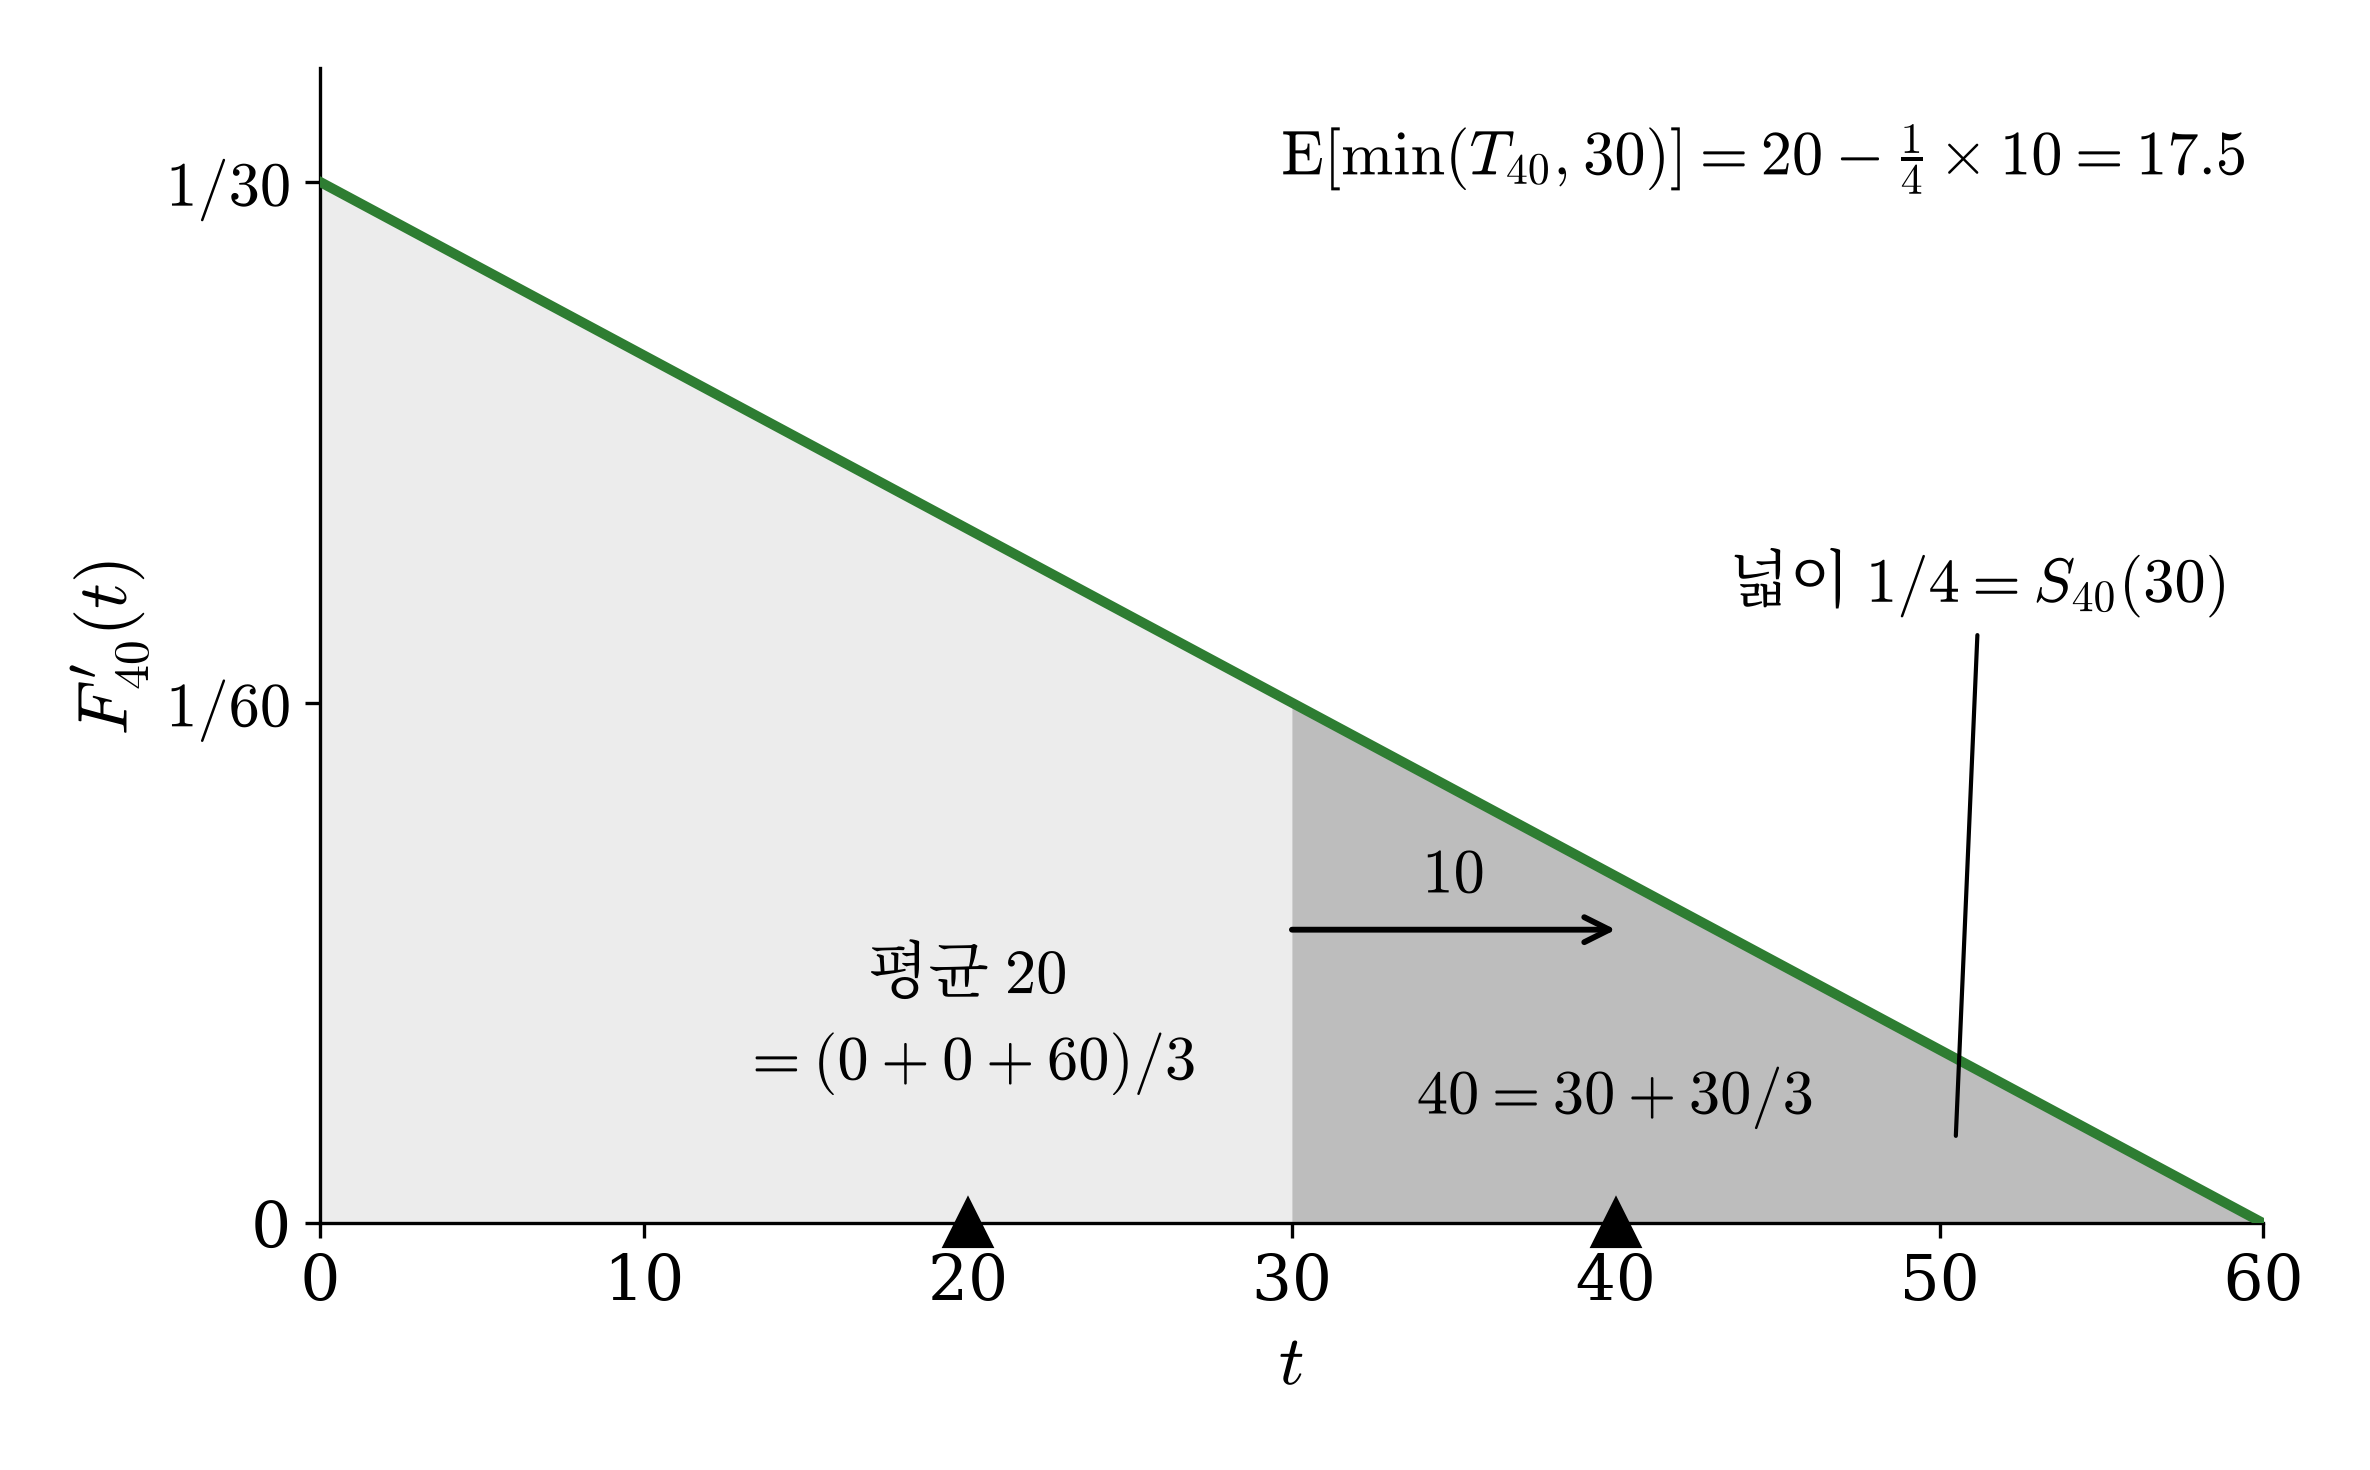
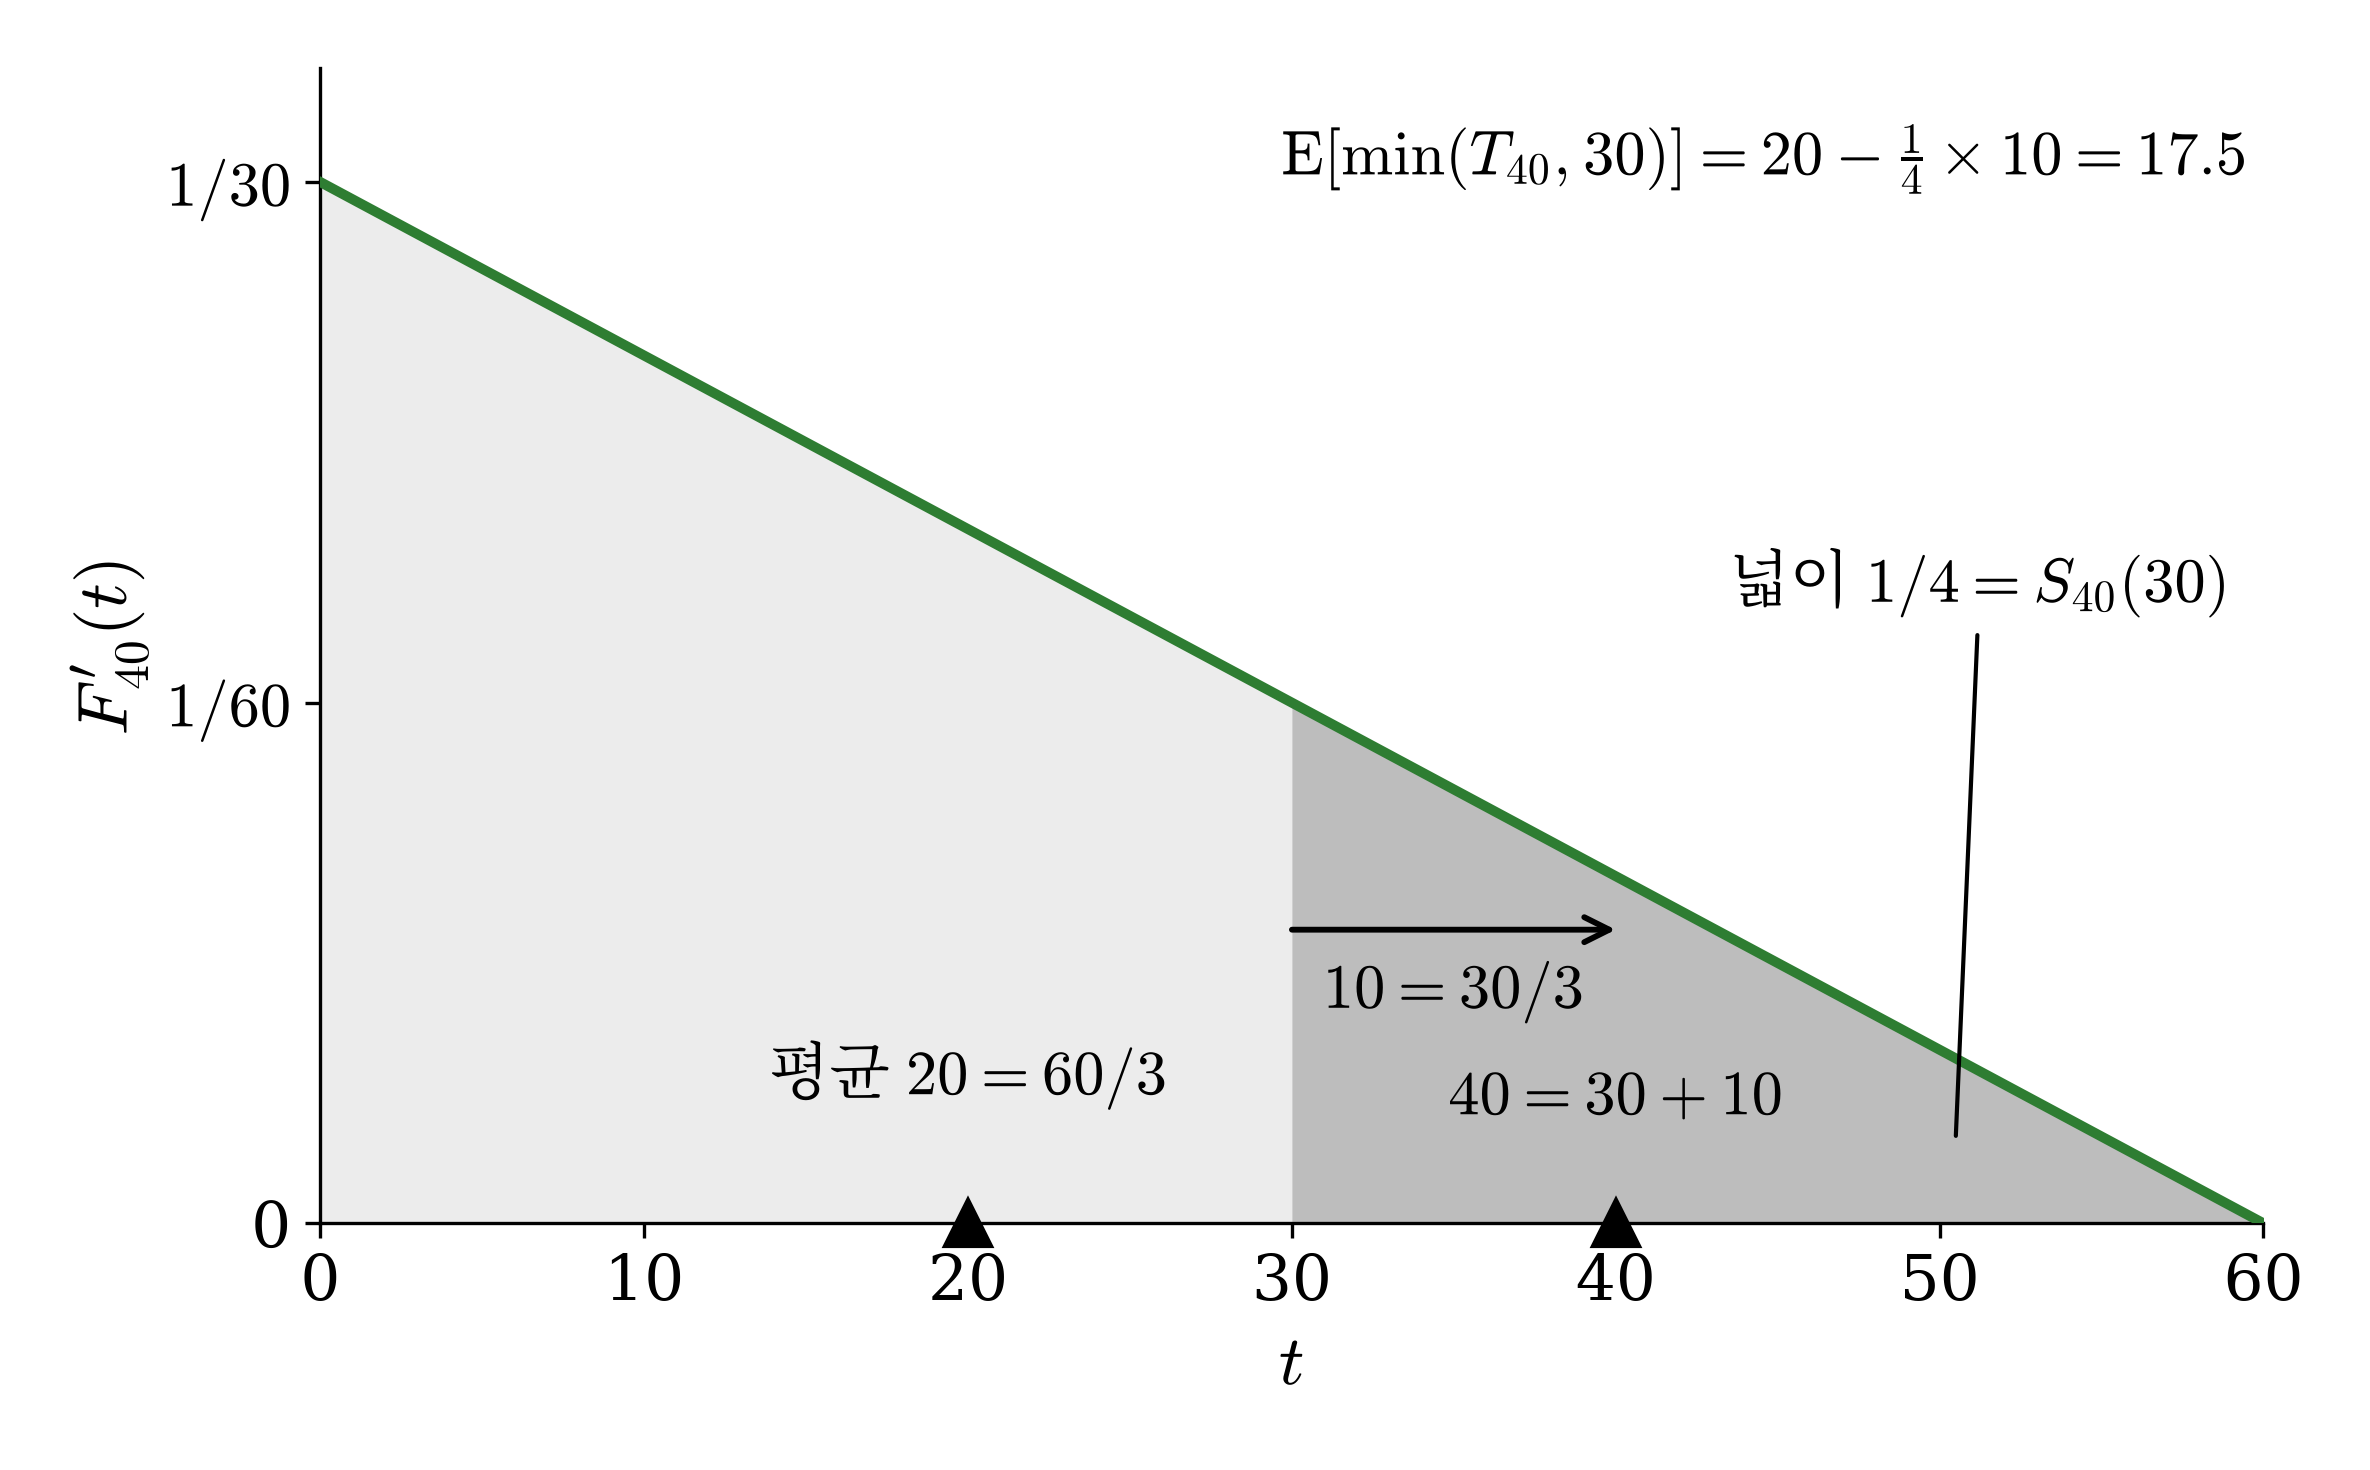
update

diff --git a/docs/posts/12wk-2.html b/docs/posts/12wk-2.html
@@ -366,8 +366,13 @@ window.Quarto = {
 \end{aligned}
 \]</span></p>
 <p><code>(풀이2)</code> 사력이 만약에 <span class="math inline">\(\mu_0(t)=\frac{1}{100 - t}\)</span> 이면 case2 에서 <span class="math inline">\(a = 100\)</span> 인 꼴이라 <span class="math inline">\(S_0(t)=1 - \frac{t}{100}\)</span> 이다. 따라서 <span class="math inline">\(S_{40}(t)=1-\frac{t}{60}\)</span>이다. 문제에서 준 사력은 <span class="math inline">\(\mu_0(t)=\frac{2}{100-t}\)</span> 이므로 우리가 원했던 사력의 2배이다. 그런데 사력이 2배면 넓이가 2배이고, 그래서 생존함수는 제곱이라는 사실을 떠올리면</p>
-<p><span class="math display">\[S_{40}(t) = \left(1 - \frac{t}{60}\right)^2\]</span> 임을 알 수 있다. 생존함수가 <span class="math inline">\(\left(1 - \frac{t}{60}\right)^2\)</span> 이면 히스토그램 <span class="math inline">\(F_{40}'(t) = \frac{2(60 - t)}{60^2}\)</span> 은 <span class="math inline">\(t = 0\)</span> 에서 가장 높고 <span class="math inline">\(t = 60\)</span> 에서 0 인 직각삼각형이다(삼각분포). 평균은 생존함수 아래 넓이이므로 <span class="math inline">\(\mathrm E[T_{40}] = \int_0^{60} \left(1 - \frac{t}{60}\right)^2 dt = \frac{60}{3} = 20\)</span> 이다.</p>
-<p><span class="math inline">\(\min(T_{40}, 30)\)</span> 은 30년 넘게 사는 사람의 30년 뒤를 잘라 낸 것이다. 30년 넘게 사는 사람은 <span class="math inline">\(S_{40}(30) = \frac14\)</span> 이고, 이들은 70세에서 사력이 <span class="math inline">\(\mu_{70}(t) = \frac{2}{30 - t}\)</span> 라 <span class="math inline">\(S_{70}(t) = \left(1 - \frac{t}{30}\right)^2\)</span> 이고, 평균 <span class="math inline">\(\int_0^{30} \left(1 - \frac{t}{30}\right)^2 dt = \frac{30}{3} = 10\)</span> 년을 더 산다.</p>
+<p><span class="math display">\[S_{40}(t) = \left(1 - \frac{t}{60}\right)^2\]</span> 임을 알 수 있다. 생존함수가 <span class="math inline">\(\left(1 - \frac{t}{60}\right)^2\)</span> 이면 히스토그램 <span class="math inline">\(F_{40}'(t) = \frac{2(60 - t)}{60^2}\)</span> 은 <span class="math inline">\(t = 0\)</span> 에서 가장 높고 <span class="math inline">\(t = 60\)</span> 에서 0 인 직각삼각형이다(삼각분포). 사력이 2배라는 것은 드므와브르를 따르는 두 사람 가운데 먼저 죽는 때라는 뜻이다. 길이 60 인 막대에 두 사람이 죽는 때를 아무렇게나 찍으면 막대는 세 토막이 나고, 두 점은 서로 바꿔도 같으므로 세 토막의 평균 길이는 같다. 첫 토막이 <span class="math inline">\(T_{40}\)</span> 이므로 <span class="math inline">\(\mathrm E[T_{40}] = \frac{60}{3} = 20\)</span> 이다.</p>
+<div class="quarto-figure quarto-figure-center">
+<figure class="figure">
+<p><img src="attachments/261120-보험유진-막대세토막.png" class="img-fluid quarto-figure quarto-figure-center figure-img" style="width:75.0%"></p>
+</figure>
+</div>
+<p><span class="math inline">\(\min(T_{40}, 30)\)</span> 은 30년 넘게 사는 사람의 30년 뒤를 잘라 낸 것이다. 30년 넘게 사는 사람은 <span class="math inline">\(S_{40}(30) = \frac14\)</span> 이고, 이들은 70세에서 사력이 <span class="math inline">\(\mu_{70}(t) = \frac{2}{30 - t}\)</span> 라 <span class="math inline">\(S_{70}(t) = \left(1 - \frac{t}{30}\right)^2\)</span> 이고, 막대가 30 이라 평균 <span class="math inline">\(\frac{30}{3} = 10\)</span> 년을 더 산다.</p>
 <div class="quarto-figure quarto-figure-center">
 <figure class="figure">
 <p><img src="attachments/261119-보험유진-예제1삼각분포.png" class="img-fluid quarto-figure quarto-figure-center figure-img" style="width:75.0%"></p>

diff --git a/docs/posts/06wk-2.html b/docs/posts/06wk-2.html
@@ -884,7 +884,7 @@ window.Quarto = {
 <p><img src="attachments/06wk_balance_N5.png" class="img-fluid" style="width:100.0%"></p>
 <p><img src="attachments/06wk_hist3_N5.png" class="img-fluid" style="width:100.0%"></p>
 </div>
-<div class="quarto-layout-panel" data-layout="[[38,31,31]]" style="text-align: center; font-size: 1.5em; line-height: 1.1; border: 1px solid #c8c8c8; padding: 10px 14px; margin: 0 0 -1px 0;">
+<div class="quarto-layout-panel" style="text-align: center; font-size: 1.5em; line-height: 1.1; border: 1px solid #c8c8c8; padding: 10px 14px; margin: 0 0 -1px 0;" data-layout="[[38,31,31]]">
 <div class="quarto-layout-row">
 <div class="quarto-layout-cell" style="flex-basis: 38.0%;justify-content: flex-start;">
 <p>⋮</p>
@@ -1734,7 +1734,7 @@ window.Quarto = {
 <p><img src="attachments/06wk_ex2_balance_N5.png" class="img-fluid" style="width:100.0%"></p>
 <p><img src="attachments/06wk_ex2_hist3_N5.png" class="img-fluid" style="width:100.0%"></p>
 </div>
-<div class="quarto-layout-panel" data-layout="[[38,31,31]]" style="text-align: center; font-size: 1.5em; line-height: 1.1; border: 1px solid #c8c8c8; padding: 10px 14px; margin: 0 0 -1px 0;">
+<div class="quarto-layout-panel" style="text-align: center; font-size: 1.5em; line-height: 1.1; border: 1px solid #c8c8c8; padding: 10px 14px; margin: 0 0 -1px 0;" data-layout="[[38,31,31]]">
 <div class="quarto-layout-row">
 <div class="quarto-layout-cell" style="flex-basis: 38.0%;justify-content: flex-start;">
 <p>⋮</p>
@@ -1996,7 +1996,7 @@ window.Quarto = {
 <p><img src="attachments/06wk_ex3_balance_N5.png" class="img-fluid" style="width:100.0%"></p>
 <p><img src="attachments/06wk_ex3_hist5_N5.png" class="img-fluid" style="width:100.0%"></p>
 </div>
-<div class="quarto-layout-panel" data-layout="[[38,31,31]]" style="text-align: center; font-size: 1.5em; line-height: 1.1; border: 1px solid #c8c8c8; padding: 10px 14px; margin: 0 0 -1px 0;">
+<div class="quarto-layout-panel" style="text-align: center; font-size: 1.5em; line-height: 1.1; border: 1px solid #c8c8c8; padding: 10px 14px; margin: 0 0 -1px 0;" data-layout="[[38,31,31]]">
 <div class="quarto-layout-row">
 <div class="quarto-layout-cell" style="flex-basis: 38.0%;justify-content: flex-start;">
 <p>⋮</p>

diff --git a/docs/index.html b/docs/index.html
@@ -250,7 +250,7 @@ Author
 </thead>
 <tbody class="list">
 
-<tr data-index="0" data-listing-date-sort="1795046400000" data-listing-file-modified-sort="1795157484988" data-listing-date-modified-sort="NaN" data-listing-reading-time-sort="17" data-listing-word-count-sort="3400" data-listing-title-sort="**12wk-2**: 계리사 기출문제 풀이 (5)" data-listing-filename-sort="12wk-2.qmd">
+<tr data-index="0" data-listing-date-sort="1795046400000" data-listing-file-modified-sort="1795166735000" data-listing-date-modified-sort="NaN" data-listing-reading-time-sort="18" data-listing-word-count-sort="3428" data-listing-title-sort="**12wk-2**: 계리사 기출문제 풀이 (5)" data-listing-filename-sort="12wk-2.qmd">
 <td>
 <span class="listing-date">Nov 19, 2026</span>
 </td>
